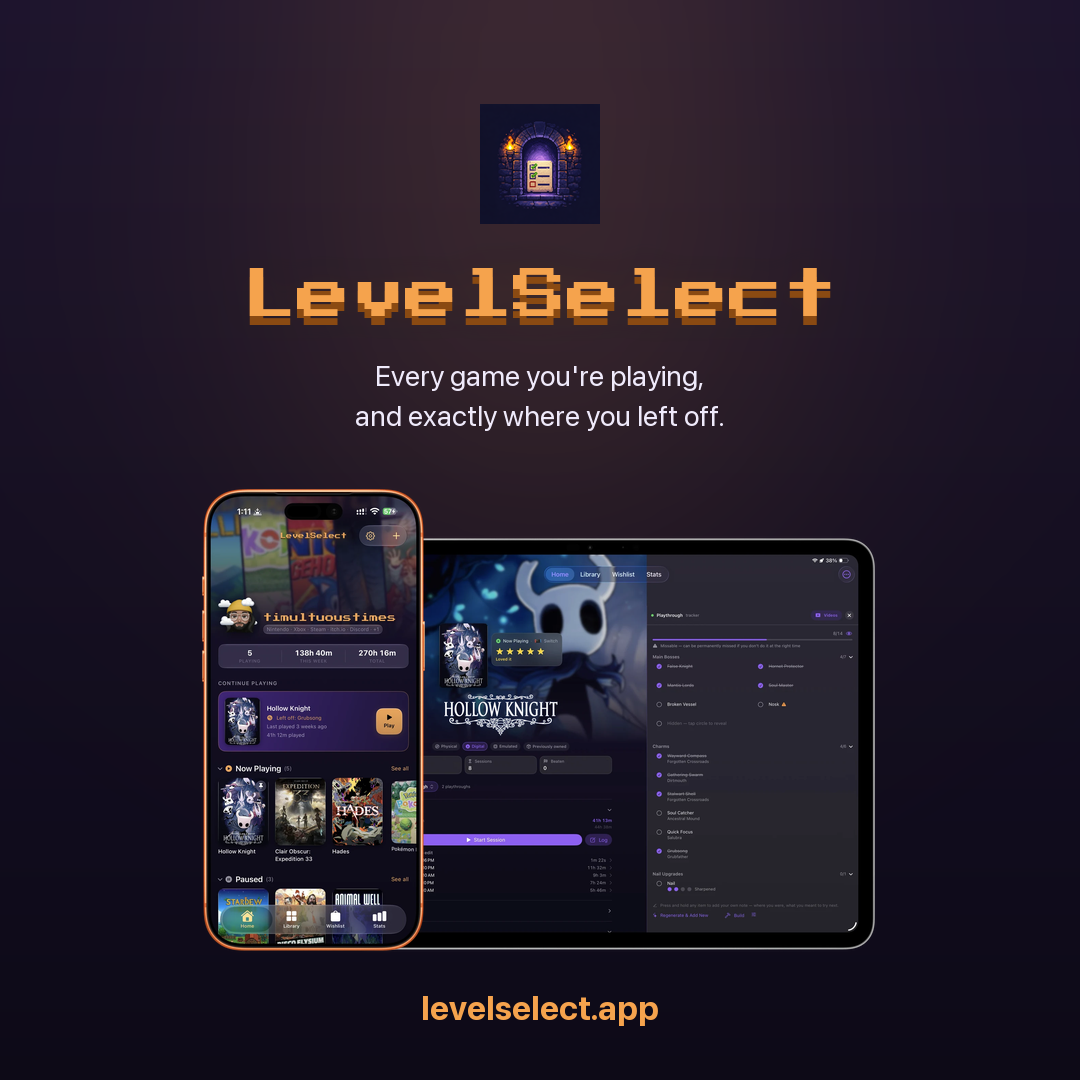
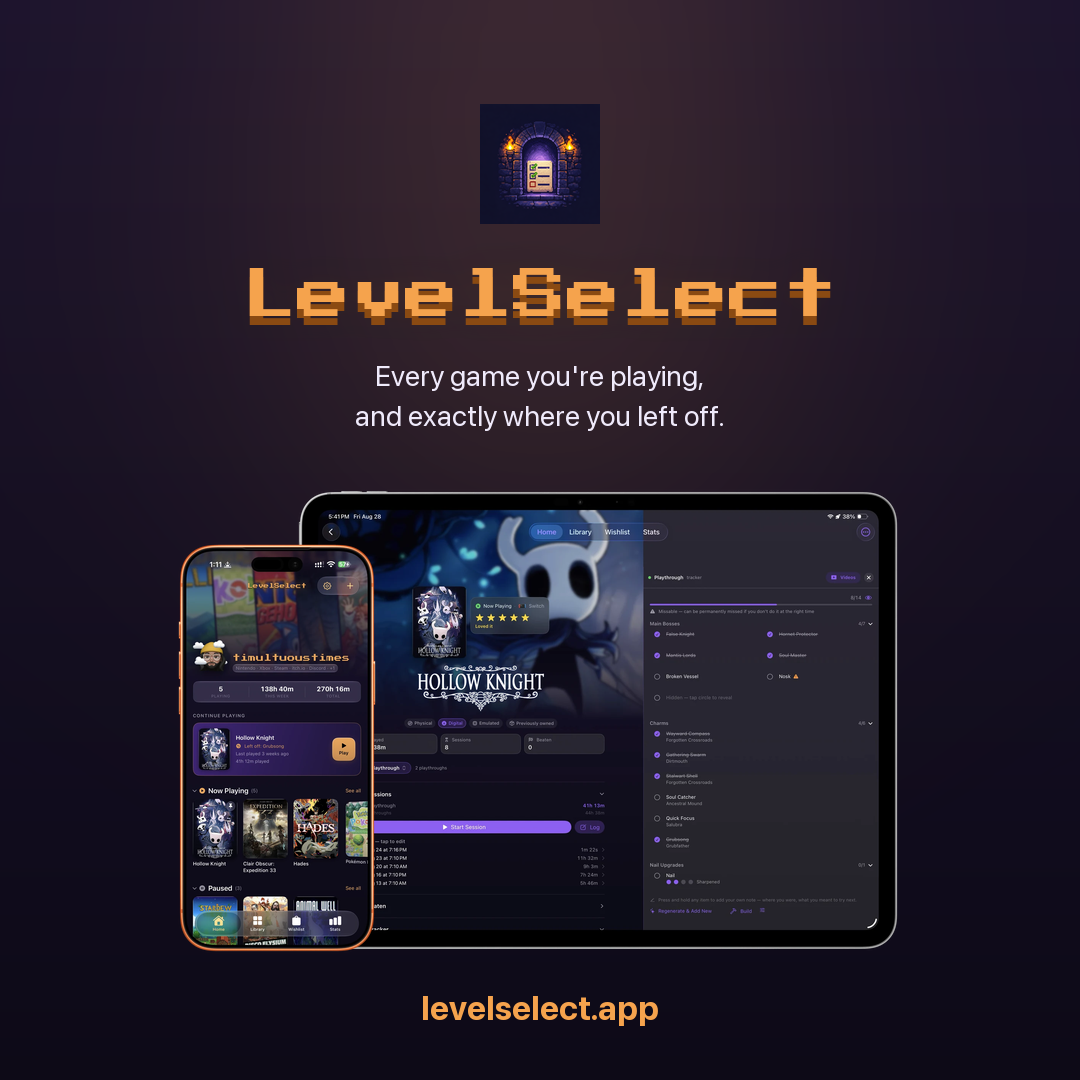
Match the website hero's arrangement
Tim, pointing at the site: "I wanted it laid out more like this."

The difference was not size, it was which device leads. On the site the
iPad is DOMINANT — high, wide, taking the full height — with the phone
smaller and hanging low-left in front of it. The social pair had them near
enough the same height with the phone leading, which reads as two devices
competing rather than one product seen twice.

So the iPad takes the full height budget, the phone is 0.88 of it, and the
offset is vertical: the phone hangs below the iPad's bottom edge rather
than sitting level with it.

Two consequences worth recording:

The pair is wider now, and the link preview crops from the right, so the
art is SHORTER there — the same devices, less height, so the iPad still
reads after the crop.

And at x764 the phone landed on the wordmark's final letter, which is the
exact collision the note above that line already warned about. It is at
790 now. The note was right the first time; I moved the art before
re-reading it.

Changed region(s): [[0.1528, 0.4278, 0.8556, 0.8861]]

diff --git a/site/scripts/make-social-images.py b/site/scripts/make-social-images.py
@@ -88,22 +88,30 @@ def devices(pair, height, max_width=None):
     iPad bigger simply pushed it off the canvas: the story and square center
     the art, so a wider pair loses the same amount off BOTH devices.
     """
-    phone = shot(PHONE_SHOT, height)
     if not pair:
-        return phone
+        return shot(PHONE_SHOT, height)
 
     # 0.90, up from 0.74. An iPad 13 is about three and a half times the width
     # of an iPhone; at 0.74 the pair read as a phone beside a small tablet,
     # which is neither true nor useful — you could not see what was on the
     # iPad. This is closer to life and closer to the website hero, where the
     # iPad ends up slightly shorter than the phone rather than dwarfed by it.
-    pad = shot(IPAD_SHOT, round(height * 0.90))
+    # The website hero's arrangement, which is the one Tim settled on: the
+    # iPad is the DOMINANT device — high, wide, taking the full height budget —
+    # and the phone is smaller, hanging low-left in front of it. Earlier
+    # versions had them near enough the same height with the phone leading,
+    # which reads as two devices competing rather than one product seen twice.
+    pad = shot(IPAD_SHOT, height)
+    phone = shot(PHONE_SHOT, round(height * 0.88))
     overlap = round(phone.width * 0.42)
-    canvas = Image.new("RGBA", (phone.width + pad.width - overlap, height), (0, 0, 0, 0))
-    # iPad behind and slightly high, phone in front-left — the arrangement the
-    # homepage hero uses, so the two read as one product on several screens.
-    canvas.alpha_composite(pad, (phone.width - overlap, round(height * 0.10)))
-    canvas.alpha_composite(phone, (0, 0))
+
+    canvas = Image.new("RGBA",
+                       (phone.width + pad.width - overlap, height), (0, 0, 0, 0))
+    # iPad top-right, phone bottom-left and in front — the offset is vertical,
+    # so the phone hangs below the iPad's bottom edge exactly as it does on the
+    # site rather than sitting level with it.
+    canvas.alpha_composite(pad, (phone.width - overlap, 0))
+    canvas.alpha_composite(phone, (0, height - phone.height))
 
     if max_width and canvas.width > max_width:
         scale = max_width / canvas.width
@@ -175,8 +183,17 @@ def open_graph(pair):
     # further right and stands shorter: the wordmark runs to ~x756 at 62px
     # (Press Start 2P is one em per character), and the phone was landing on
     # its final letter.
-    art = devices(pair, 700 if not pair else 440)
-    img.alpha_composite(art, (835, 92) if not pair else (772, 96))
+    # The pair is wider than it was — the iPad leads now — so it is shorter
+    # here and starts further left, otherwise more than half the iPad falls off
+    # the right edge. The wordmark runs to about x756 at 62px (Press Start 2P
+    # is one em per character), so 764 is as far left as the art can go.
+    # 790, not further left. The wordmark runs to about x756 at 62px (Press
+    # Start 2P is one em per character) and at 764 the phone landed on its
+    # final letter — which is the same collision the original note here warned
+    # about. The pair is shorter instead, so the iPad still reads without the
+    # art having to encroach on the type.
+    art = devices(pair, 700 if not pair else 384)
+    img.alpha_composite(art, (835, 92) if not pair else (790, 128))
     return img, f"og{'-2up' if pair else ''}.png"
 
 
